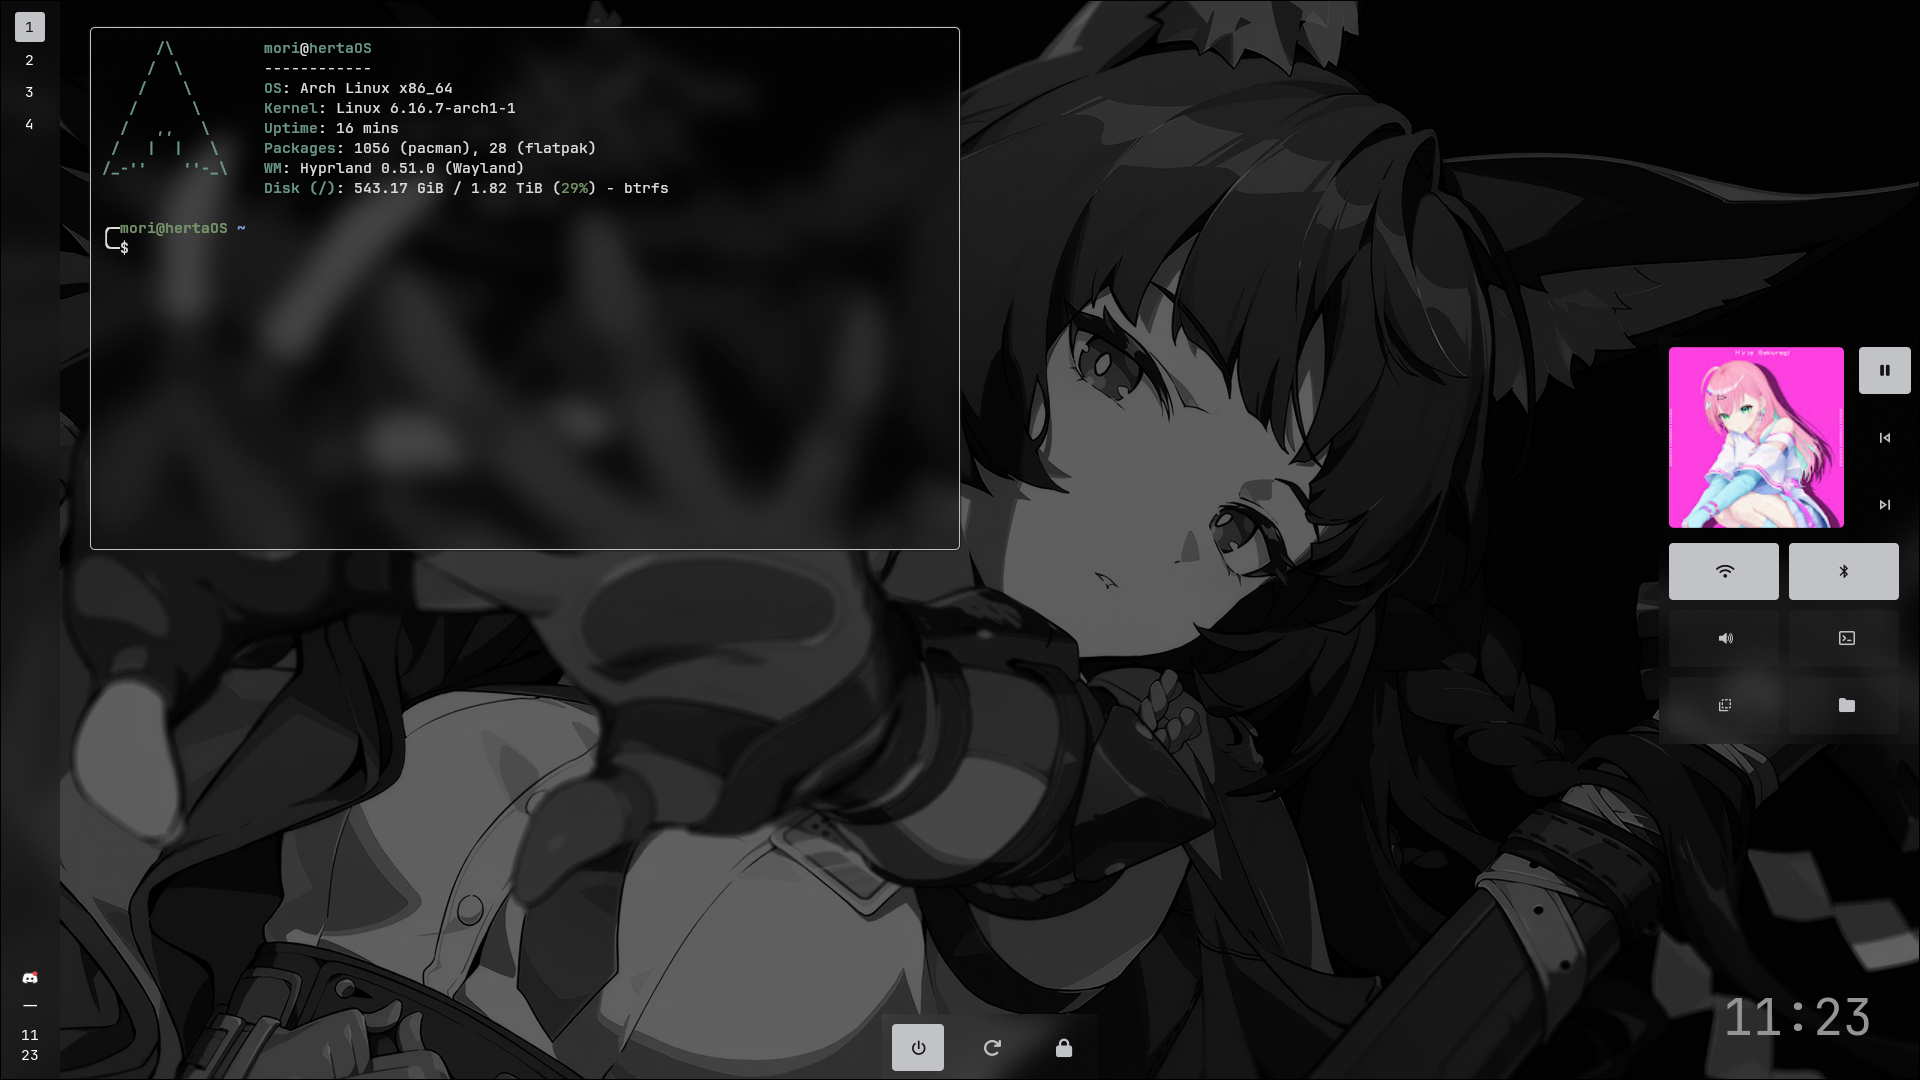
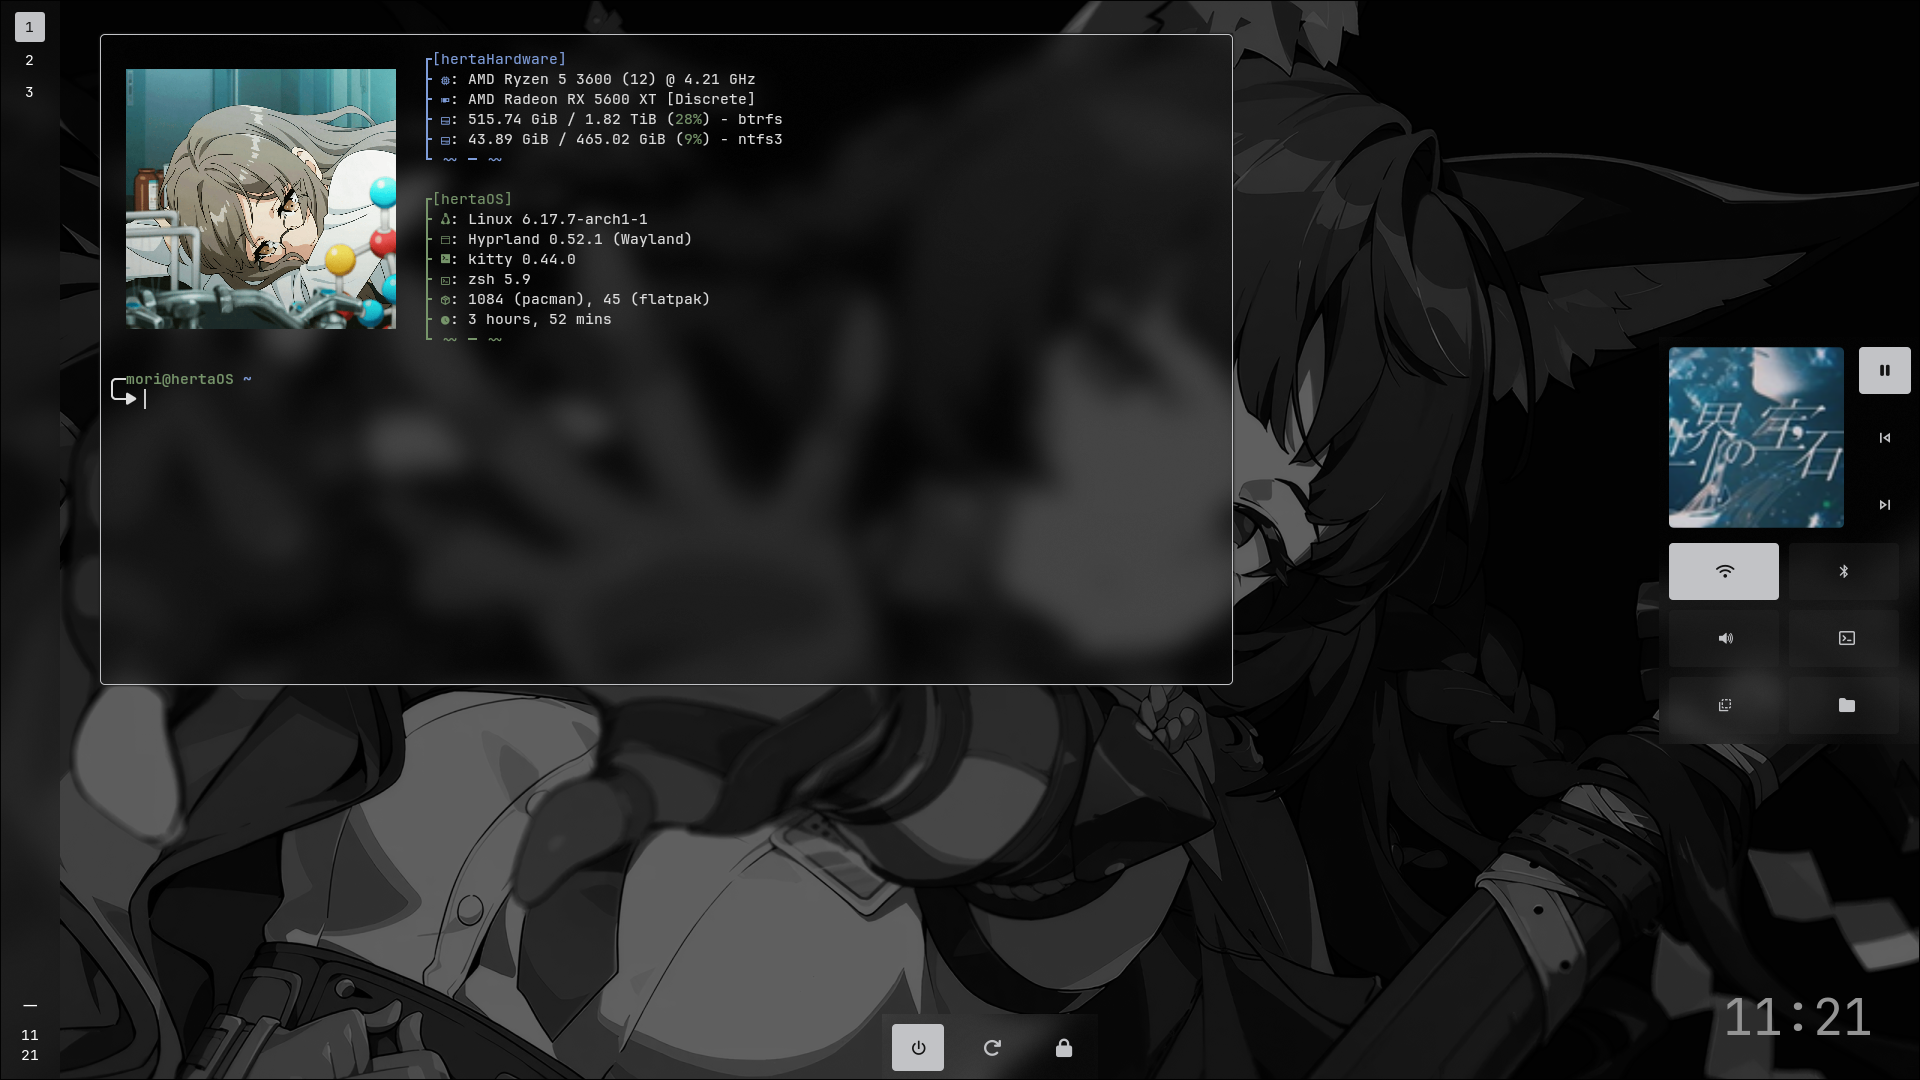
fastfetch
change expanded image to show new fastfetch config, and reword the end
of README.md

diff --git a/README.md b/README.md
@@ -5,7 +5,6 @@ my personal Hyprland + EWW dotfiles
 - [hyprland](https://github.com/hyprwm/Hyprland)
 - [EWW](https://github.com/elkowar/eww)
 - [hyprlock](https://github.com/hyprwm/hyprlock)
-- [hyprshot](https://github.com/Gustash/hyprshot)
 - JetBrains Nerdfont Mono
 - [Hyprpaper](https://github.com/hyprwm/hyprpaper) (optional, disabled by default)
 
@@ -32,5 +31,6 @@ my personal Hyprland + EWW dotfiles
 
 #### !! CONFIGURE YOUR MONITOR FIRST ON hyprland.conf !! (by default its using a 1920x1080 monitor with 180hz being refered as "HDMI-A-1".)
 
-Wallpaper is handled by EWW, but hyprpaper config exists, just add it to exec-now on hyprland.conf, hyprpaper searches for the wallpaper on .config/hypr/assets/wallpaper.png
-obs: EWW searches for "wallpaper.png" on (eww config)/assets/wallpaper.png
+Wallpaper is handled by EWW, with the wallpaper being set on ~/.config/nuno-shell/assets/wallpaper.png
+
+You can also install something like [awww (fomerly known as swww)](https://codeberg.org/LGFae/awww)
